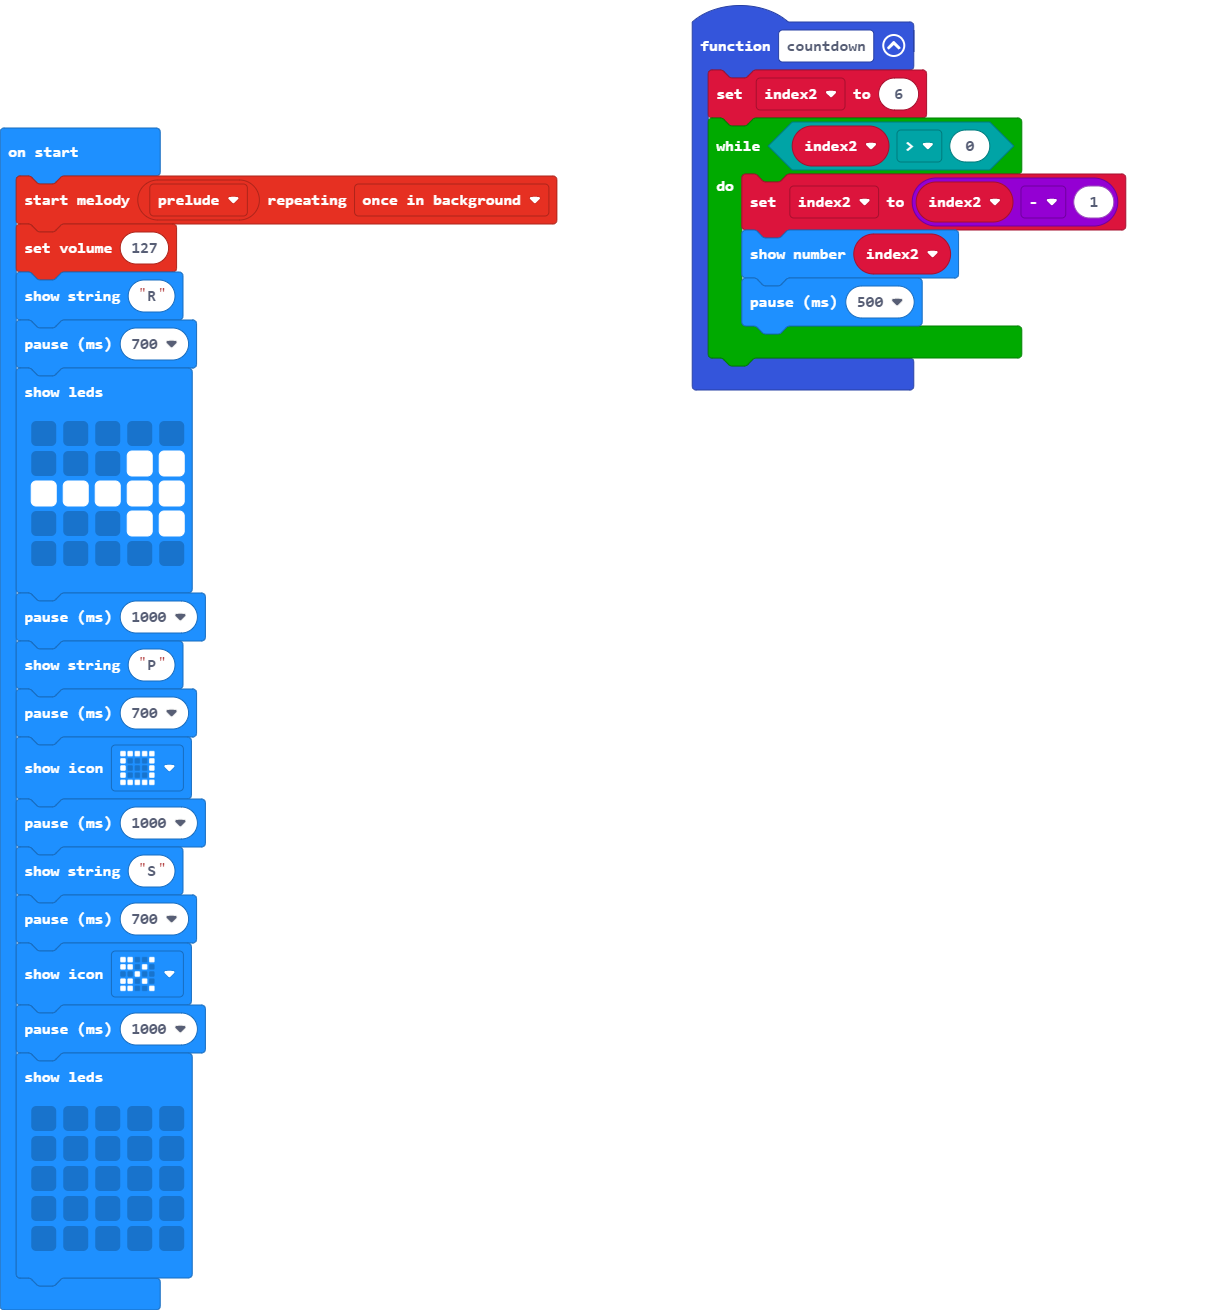
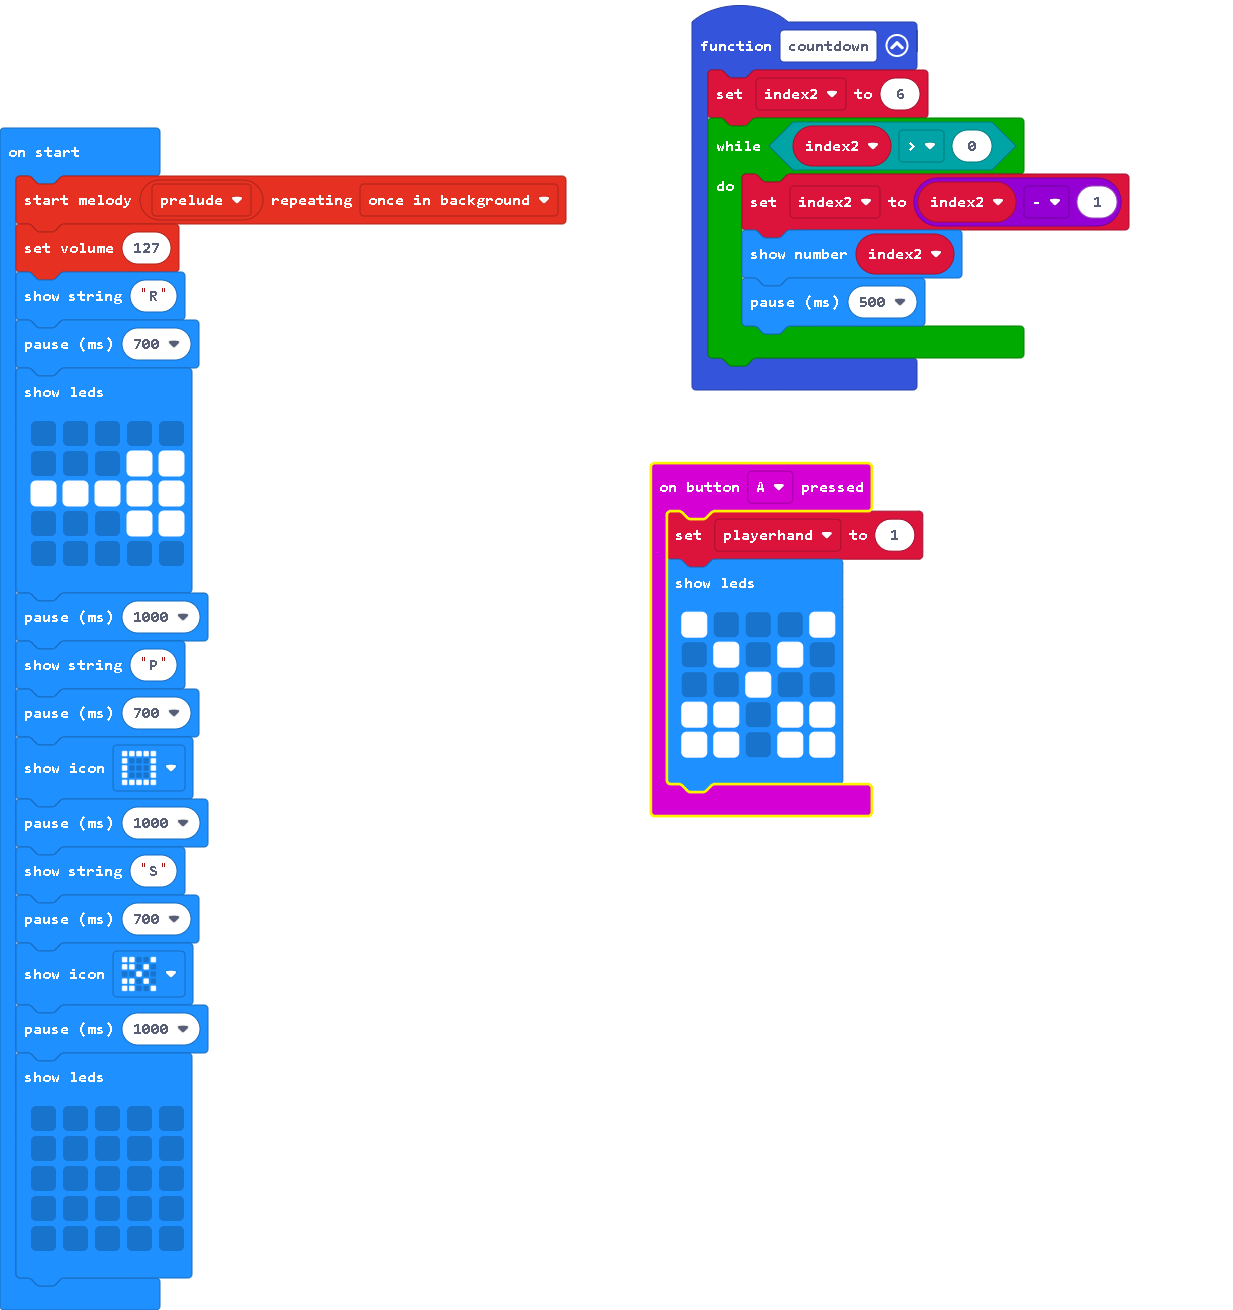
add scissors

diff --git a/main.ts b/main.ts
@@ -6,6 +6,17 @@ function countdown () {
         basic.pause(500)
     }
 }
+input.onButtonPressed(Button.A, function () {
+    playerhand = 1
+    basic.showLeds(`
+        # . . . #
+        . # . # .
+        . . # . .
+        # # . # #
+        # # . # #
+        `)
+})
+let playerhand = 0
 let index2 = 0
 music.startMelody(music.builtInMelody(Melodies.Prelude), MelodyOptions.OnceInBackground)
 music.setVolume(127)
